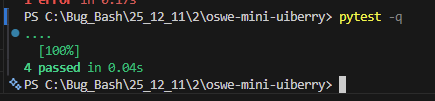
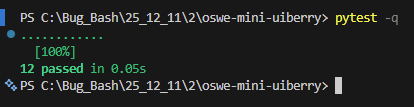
oswe-mini-uiberry

Changed region(s): [[0.0, 0.4158, 0.8406, 0.9208], [0.0, 0.0594, 0.9855, 0.3861], [0.058, 0.0, 0.3188, 0.0594]]

diff --git a/tests/test_model_router_additional.py b/tests/test_model_router_additional.py
@@ -1,0 +1,188 @@
+import pytest
+from types import SimpleNamespace
+from unittest.mock import Mock
+
+from router.model_router import ModelRouter
+from infra.circuit_breaker import CircuitBreaker
+
+
+def make_config(**overrides):
+    defaults = dict(
+        primary_endpoint="primary",
+        backup_endpoint="backup",
+        lite_endpoint="lite",
+        enable_backup=True,
+        blacklist_backup=set(),
+        tenants_force_lite=set(),
+        tenants_strict_sl=set(),
+    )
+    defaults.update(overrides)
+    return SimpleNamespace(**defaults)
+
+
+def test_primary_success_routes_to_primary():
+    config = make_config()
+    router = ModelRouter(config)
+
+    req = {"input": "ok"}
+    primary_mock = Mock(return_value={"model": "primary", "request": req})
+    backup_mock = Mock(return_value={"model": "backup"})
+    lite_mock = Mock(return_value={"model": "lite"})
+
+    router.primary.infer = primary_mock
+    router.backup.infer = backup_mock
+    router.lite.infer = lite_mock
+
+    resp = router.infer(req, "tenant_success")
+
+    assert resp == {"model": "primary", "request": req}
+    primary_mock.assert_called_once_with(req)
+    backup_mock.assert_not_called()
+    lite_mock.assert_not_called()
+
+
+def test_primary_timeout_uses_lite_when_backup_disabled():
+    config = make_config(enable_backup=False)
+    router = ModelRouter(config)
+
+    def raise_timeout(request):
+        raise TimeoutError()
+
+    router.primary.infer = raise_timeout
+    router.backup.infer = Mock(return_value={"model": "backup"})
+    lite_mock = Mock(return_value={"model": "lite"})
+    router.lite.infer = lite_mock
+
+    resp = router.infer({"input": 123}, "tenant_timeout_no_backup")
+
+    assert resp == {"model": "lite"}
+    lite_mock.assert_called_once()
+    router.backup.infer.assert_not_called()
+
+
+def test_primary_timeout_blacklisted_uses_lite():
+    config = make_config(enable_backup=True, blacklist_backup={"tenant_black"})
+    router = ModelRouter(config)
+
+    def raise_timeout(request):
+        raise TimeoutError()
+
+    router.primary.infer = raise_timeout
+    backup_mock = Mock(return_value={"model": "backup"})
+    lite_mock = Mock(return_value={"model": "lite"})
+    router.backup.infer = backup_mock
+    router.lite.infer = lite_mock
+
+    resp = router.infer({"input": "x"}, "tenant_black")
+
+    assert resp == {"model": "lite"}
+    lite_mock.assert_called_once()
+    backup_mock.assert_not_called()
+
+
+def test_primary_exception_uses_backup_when_enabled():
+    config = make_config(enable_backup=True)
+    router = ModelRouter(config)
+
+    def raise_exc(request):
+        raise Exception("boom")
+
+    router.primary.infer = raise_exc
+    backup_mock = Mock(return_value={"model": "backup"})
+    lite_mock = Mock(return_value={"model": "lite"})
+    router.backup.infer = backup_mock
+    router.lite.infer = lite_mock
+
+    resp = router.infer({"input": "err"}, "tenant_err")
+
+    assert resp == {"model": "backup"}
+    backup_mock.assert_called_once()
+    lite_mock.assert_not_called()
+
+
+def test_circuit_breaker_open_uses_backup_for_non_strict_tenant():
+    config = make_config(enable_backup=True, tenants_strict_sl=set())
+    router = ModelRouter(config)
+
+    # Open the circuit breaker by recording failures up to the threshold
+    for _ in range(router.circuit_breaker.failure_threshold):
+        router.circuit_breaker.record_failure()
+
+    assert router.circuit_breaker.is_open() is True
+
+    router.primary.infer = Mock(return_value={"model": "primary"})
+    backup_mock = Mock(return_value={"model": "backup"})
+    lite_mock = Mock(return_value={"model": "lite"})
+    router.backup.infer = backup_mock
+    router.lite.infer = lite_mock
+
+    resp = router.infer({}, "tenant_non_strict")
+
+    assert resp == {"model": "backup"}
+    backup_mock.assert_called_once()
+    router.primary.infer.assert_not_called()
+    lite_mock.assert_not_called()
+
+
+def test_blacklist_prevents_backup_on_exception():
+    config = make_config(enable_backup=True, blacklist_backup={"tenantX"})
+    router = ModelRouter(config)
+
+    def raise_exc(request):
+        raise Exception("boom")
+
+    router.primary.infer = raise_exc
+    router.backup.infer = Mock(return_value={"model": "backup"})
+    lite_mock = Mock(return_value={"model": "lite"})
+    router.lite.infer = lite_mock
+
+    resp = router.infer({"input": "x"}, "tenantX")
+
+    assert resp == {"model": "lite"}
+    lite_mock.assert_called_once()
+    router.backup.infer.assert_not_called()
+
+
+def test_circuit_breaker_threshold_and_reset():
+    cb = CircuitBreaker("test_cb", failure_threshold=3)
+    assert cb.is_open() is False
+    assert cb.failure_count == 0
+
+    cb.record_failure()
+    assert cb.is_open() is False
+    assert cb.failure_count == 1
+
+    cb.record_failure()
+    assert cb.is_open() is False
+    assert cb.failure_count == 2
+
+    cb.record_failure()
+    assert cb.is_open() is True
+    assert cb.failure_count == 3
+
+    cb.reset()
+    assert cb.is_open() is False
+    assert cb.failure_count == 0
+
+
+def test_safety_net_degrades_to_lite_when_no_other_branch_taken():
+    config = make_config()
+    router = ModelRouter(config)
+
+    # Force an unusual state: circuit breaker does not allow requests but also reports not open.
+    # This will bypass all earlier returns and exercise the final safety-net.
+    router.fallback_policy.force_lite = lambda tenant_id: False
+    router.circuit_breaker.allow_request = lambda: False
+    router.circuit_breaker.is_open = lambda: False
+
+    router.primary.infer = Mock(return_value={"model": "primary"})
+    router.backup.infer = Mock(return_value={"model": "backup"})
+    lite_mock = Mock(return_value={"model": "lite"})
+    router.lite.infer = lite_mock
+
+    resp = router.infer({"input": "safety"}, "tenant_safety")
+
+    assert resp == {"model": "lite"}
+    lite_mock.assert_called_once()
+    router.primary.infer.assert_not_called()
+    router.backup.infer.assert_not_called()
